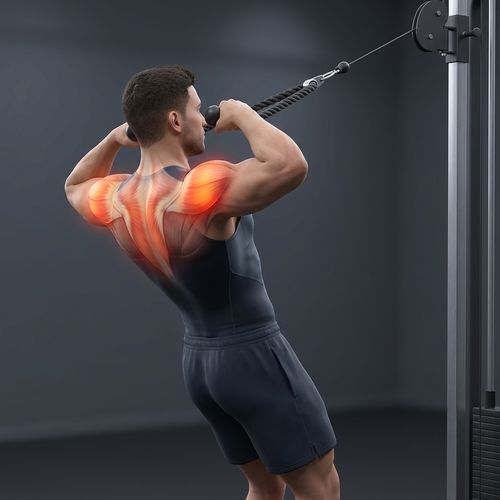
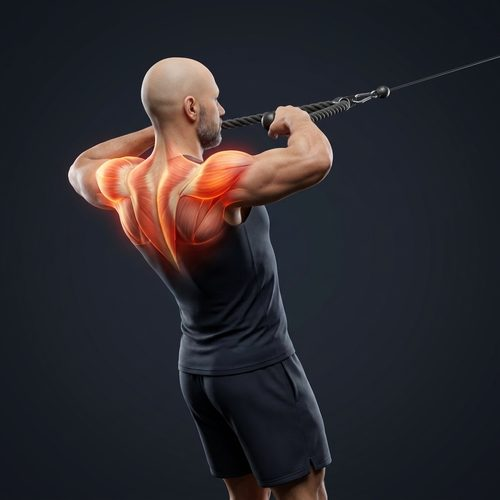
Add files via upload

diff --git a/index.html b/index.html
@@ -263,7 +263,8 @@
   .ex-image{
     width:100%;
     max-width:320px;
-    height:180px;
+    aspect-ratio:1/1;
+    height:auto;
     object-fit:cover;
     border-radius:4px;
     margin-bottom:10px;
